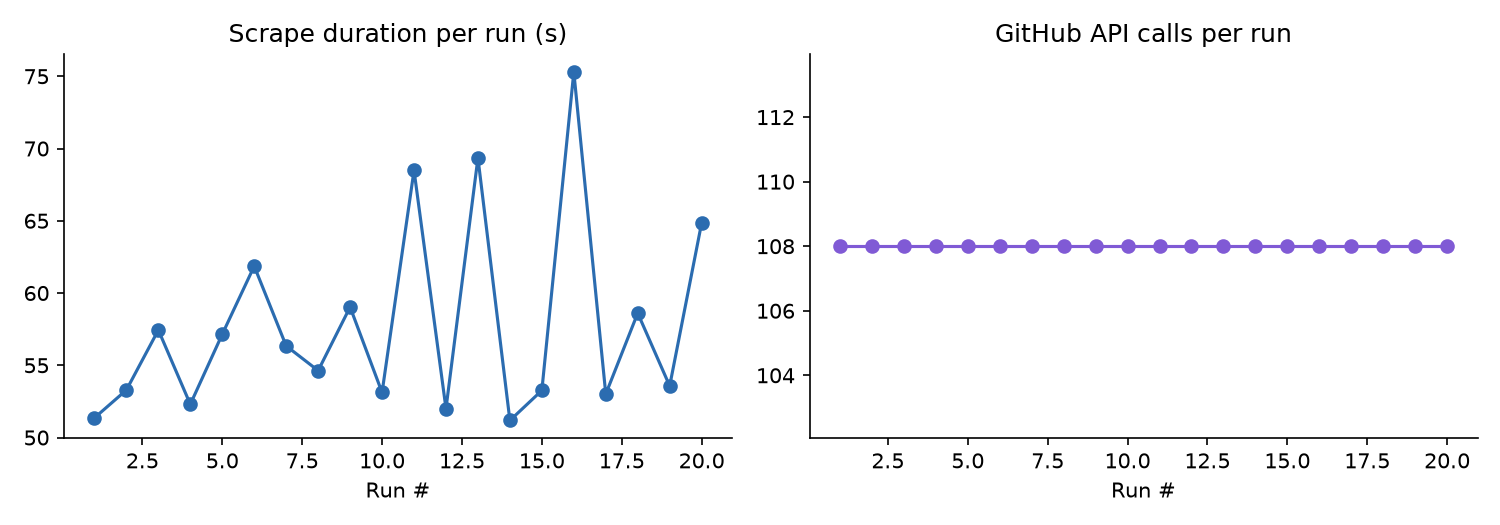
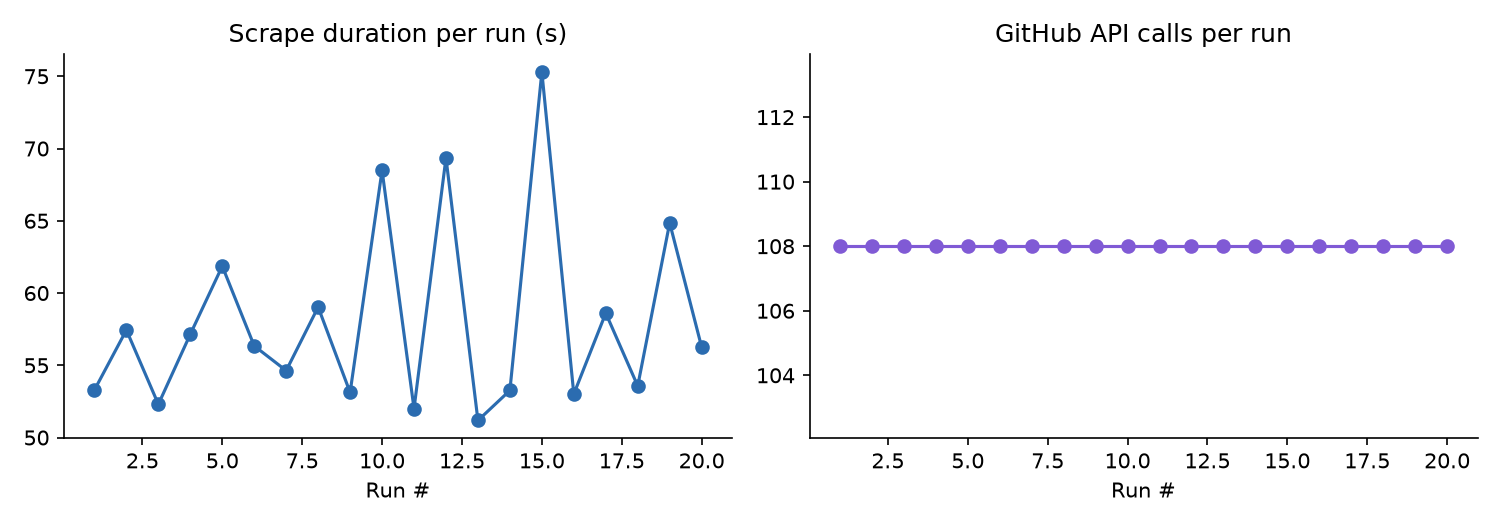
Weekly issue tracker refresh

Changed region(s): [[0.0613, 0.1219, 0.4907, 0.8229]]

diff --git a/README.md b/README.md
@@ -81,7 +81,7 @@ See [CONTRIBUTING.md](CONTRIBUTING.md) for the full contributor workflow — inc
 
 <!-- TRACKER:START -->
 
-_Last updated: 2026-08-02 14:17 UTC_
+_Last updated: 2026-08-02 14:47 UTC_
 
 _Tracking **18** upstream repos, **388** relevant open issues._
 
@@ -295,7 +295,7 @@ _Tracking **18** upstream repos, **388** relevant open issues._
 
 <!-- METRICS:START -->
 
-_Last run: 2026-08-02 14:15 UTC, took **64.8s**, **108** GitHub API calls, **4786/5000** rate limit remaining._
+_Last run: 2026-08-02 14:46 UTC, took **56.3s**, **108** GitHub API calls, **4893/5000** rate limit remaining._
 
 ![Scrape metrics trend](assets/metrics_trend.png)
 
